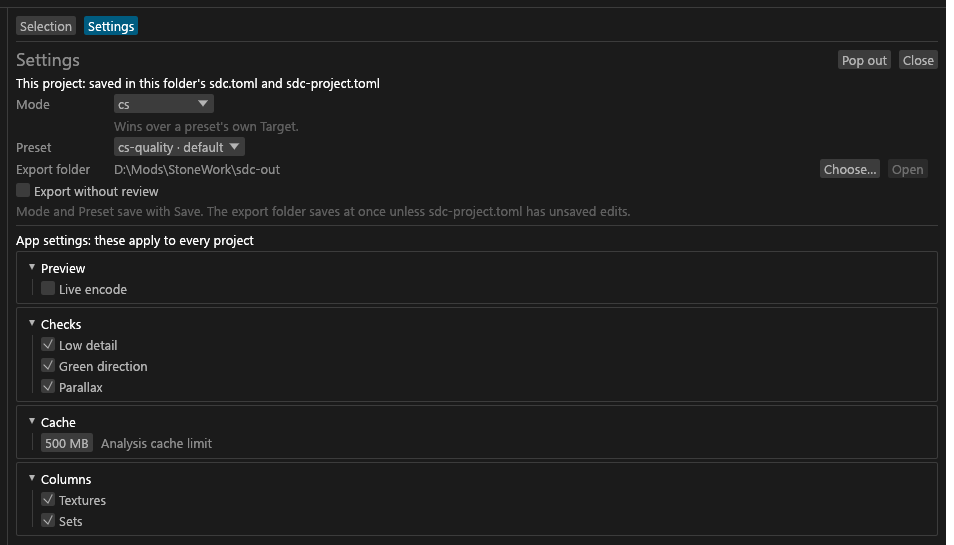
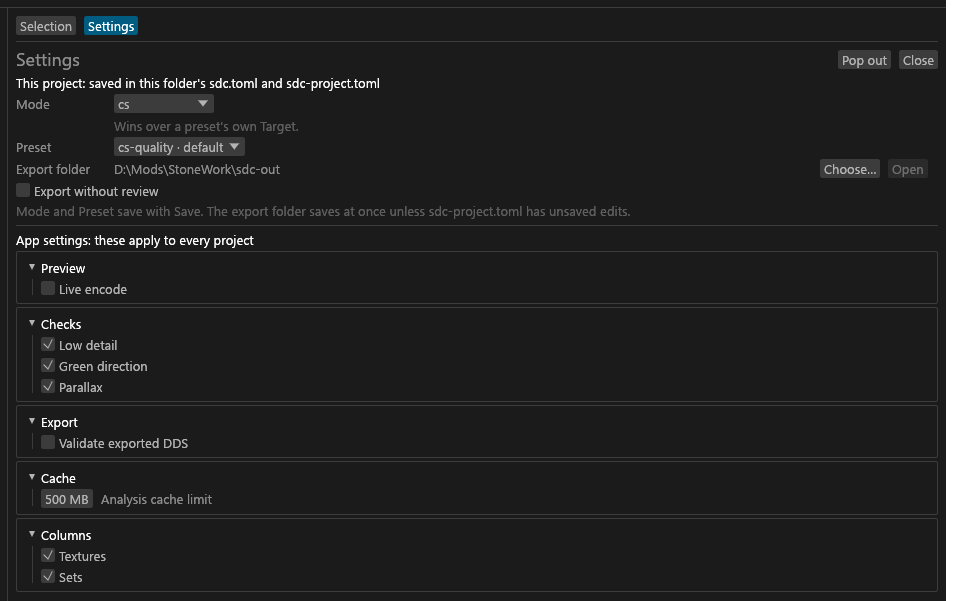
docs: validation after encoding is opt-in (Note LF)
Assisted-by: Claude Code

Changed region(s): [[0.0, 0.0, 1.0, 0.9982], [0.8512, 0.2495, 0.9727, 0.3431]]

diff --git a/.claude/DECISIONS.md b/.claude/DECISIONS.md
@@ -9,7 +9,7 @@ A new note goes at the end of this file and adds its letter to the index line of
 
 ## Index
 
-- Engine policy (formats, alpha gate, versions, writes): Answers, A, B, D, E, F, I, K, L, M, O, R, S, T, W, Y, AC, AG, AK, AV, AW, AX, AZ, BB, BC, BF, BJ, BL, BQ, BV, DB, DC, DM, DS, DY, FA, FF, FL, GJ, FM, FQ, FV, FZ, HB, HE, GU, GV, GW, GY, HF, IB, HR, HS, HW, HX, HY, HZ, JA, JB, JL, JP, JQ, JT, JU, JS, JZ, JY, LA, LB
+- Engine policy (formats, alpha gate, versions, writes): Answers, A, B, D, E, F, I, K, L, M, O, R, S, T, W, Y, AC, AG, AK, AV, AW, AX, AZ, BB, BC, BF, BJ, BL, BQ, BV, DB, DC, DM, DS, DY, FA, FF, FL, GJ, FM, FQ, FV, FZ, HB, HE, GU, GV, GW, GY, HF, IB, HR, HS, HW, HX, HY, HZ, JA, JB, JL, JP, JQ, JT, JU, JS, JZ, JY, LA, LB, LF
 - Analysis and alpha: A, E, L, M, S, T, U, X, Y, AH, AK, BC, CL, CN, DQ, DS, DU, DV, DW, DZ, FC, FM, GY, HR, HV, JE, JO, JQ, JS, JY
 - Mips and resize: E, R, S, W, X, Y, CL, FM, HR, JS, LA
 - Encoders: F, O, S, T, BZ, CB, CP, FE, FF, FJ, FM, FQ, FZ, HW, HX, HY, HZ, JB, JC, JT, JZ
@@ -17,14 +17,14 @@ A new note goes at the end of this file and adds its letter to the index line of
 - Bake: E, M, R, W, Y, AL, BP, CL, CO, DP, FM, FN, FO, FV, HD, GV, GW, JS, LA
 - Cubemaps: DL, DN, DS, DT, FA, FC, FM, FO, FQ, FT, FY, GU, HX, JY
 - Presets and config: G, N, S, T, X, AE, AL, AM, AP, AS, AV, AZ, BC, BJ, BO, BQ, BR, BV, CN, CV, FB, FL, FM, FQ, FX, FY, GU, HB, GV, GW, IA, IB, HY, JG, JT, JR, JS, JY, LA
-- Manifest and outputs: F, M, N, S, Y, AE, AF, AL, BJ, BQ, BV, CN, CT, DM, DY, FC, FM, FZ, HB, HE, HQ, HF, HR, HS, HZ, JA, JB, JC, JQ, JR, JT, JS, JZ, JY, LA
+- Manifest and outputs: F, M, N, S, Y, AE, AF, AL, BJ, BQ, BV, CN, CT, DM, DY, FC, FM, FZ, HB, HE, HQ, HF, HR, HS, HZ, JA, JB, JC, JQ, JR, JT, JS, JZ, JY, LA, LF
 - Exports (PGPatcher, CS PBR, CM, XPMF, Also): P, V, AA, AB, AC, AD, AF, AG, AN, AT, BO, BR, BV, BY, CN, CO, CV, GE, GI, FM, FN, FO, FP, FT, FW, FV, HB, GV, GW, HL, HQ, HF, HJ, HT, HS, JH, JI, JN, JR, JS, JY, LB
-- CLI: I, J, K, X, BC, BQ, CN, DY, FC, FM, FX, GV, GW, GY, IB, HS, JA, JP, JQ, JT, JS, JY
+- CLI: I, J, K, X, BC, BQ, CN, DY, FC, FM, FX, GV, GW, GY, IB, HS, JA, JP, JQ, JT, JS, JY, LF
 - GUI Files and Inspector: N, P, S, U, Z, AA, AE, AF, AG, AM, AN, AO, AV, AY, BH, BI, BN, BO, BR, BS, BV, BY, CA, CC, CD, CE, CF, CG, CV, DN, DO, DP, DU, DZ, FA, FB, FC, FD, FI, FK, FL, FM, FN, FO, FP, FT, FS, FW, FU, FY, HB, HC, HE, HG, GV, HM, HN, GW, GY, HP, IA, HL, HF, HH, IB, HJ, HR, HV, HS, JE, JD, JF, JG, JH, JI, JJ, JK, JL, JM, JN, JO, JP, JQ, JR, JT, JU, JS, JV, JW, JX, JY, LB, LC, LD
-- GUI Settings panel: S, V, X, Z, AF, AG, AJ, AN, AS, AW, BM, BS, CC, CL, CV, FB, FC, FM, FS, FT, FY, GU, GV, GW, HP, IA, IB, HI, HJ, HV, HY, JF, JG, JI, JL, JO, JR, JT, JU, JS, JY, LA
+- GUI Settings panel: S, V, X, Z, AF, AG, AJ, AN, AS, AW, BM, BS, CC, CL, CV, FB, FC, FM, FS, FT, FY, GU, GV, GW, HP, IA, IB, HI, HJ, HV, HY, JF, JG, JI, JL, JO, JR, JT, JU, JS, JY, LA, LF
 - GUI Meshes view: BA, BT, CV, CZ, FC, FI, GC, GD, GH, GJ, GK, GN, GO, GP, FO, GQ, GR, HS, JL, JT, JU, JY, LD
 - GUI Preview and 3D: N, AG, AQ, AU, BS, CE, CJ, CL, CM, DT, FA, GD, GG, GH, GJ, GK, GL, GM, FM, FO, GQ, FS, FT, FY, FZ, GR, GT, GU, GX, GZ, IB, HS, HX, JH, JI, JJ, JL, JO, JR, JT, JV, JY
-- GUI Dialogs and Export: AG, BH, BO, BR, BV, BY, CA, CD, CE, CF, CN, CV, DT, FB, FC, FI, FM, FN, FO, FP, FS, FW, FU, GU, HB, HC, HE, GV, GY, HL, HF, HQ, HH, HI, HJ, HR, HS, JA, JF, JI, JK, JL, JN, JO, JQ, JR, JT, JU, JS, JW, JY, LB, LC, LD
+- GUI Dialogs and Export: AG, BH, BO, BR, BV, BY, CA, CD, CE, CF, CN, CV, DT, FB, FC, FI, FM, FN, FO, FP, FS, FW, FU, GU, HB, HC, HE, GV, GY, HL, HF, HQ, HH, HI, HJ, HR, HS, JA, JF, JI, JK, JL, JN, JO, JQ, JR, JT, JU, JS, JW, JY, LB, LC, LD, LF
 - modscan: BE, BQ, BT, BU, BW, BY, CK, CM, CN, CV, CW, DA, GA, GB, GC, GD, GJ, GO, GP, GQ, HK, IB
 - vfs: AV, BP, BU, CV
 - esp: GG, GO, GQ
@@ -765,7 +765,7 @@ Rules still in force at 2.0, one or two lines each, with the 1.x IDs (in `.claud
   - **Motion.** The old `ui/motion.rs` and every call site are gone; today's `ui/motion.rs` is JO8's reduced-motion switch, with no setting. Toasts time out with no fade or rise. The Export button and dot take the accent at once. Progress bars show their value as it is. The reorder flash, the slot flash, the thumbnail press scale and the columns' fade-in on opening a folder are gone, and a scroll to a revealed set lands at once. egui's stock motion (dialog fades, collapsing headers) is left alone unless the OS asks for reduced motion (JO8), and keyboard-opened overlays still open without a fade (CF3). Nothing here adds an animation.
   - **Timings panel.** The Set 3D view's Timings panel and the query, NIF and push times behind it (`model::set_preview`) are gone, and `main` no longer calls `render3d::perf_log::start()`. `render3d` is untouched.
   - **An old `gui.toml`.** The keys `jobs`, `mem_budget_mb`, `bc1_decoder`, `nvtt_path`, `reduce_motion`, `allow_16k_preview` and `preview_max` load without a message and are left out of the next save. They have no row in `REMOVED`, which is for project and preset keys.
-  - **Tests.** `settings::a_1x_gui_toml_still_loads`. `settings_tab::the_settings_tab_holds_exactly_four_groups` (JI1) checks that App settings has four groups, Preview, Checks, Cache and Columns, by name, each holding its listed controls; a Worker threads row that came back inside a group would not fail it, so no test pins this ruling's removals any more. `messages`: `a_new_toast_appears_whole_without_rising`, `a_toast_stays_whole_until_its_time_is_up`, `a_resting_toast_asks_for_no_frames_until_its_time_is_up`, `a_hovered_toast_asks_for_no_short_timer`. `set_order::a_reveal_lands_at_once`. `ui_smoke::opening_a_folder_shows_the_columns_at_full_opacity_at_once`. `review_tab::export_is_the_accent_once_ready_and_plain_when_not`.
+  - **Tests.** `settings::a_1x_gui_toml_still_loads`. `settings_tab::the_settings_tab_holds_exactly_five_groups` (JI1) checks that App settings has five groups, Preview, Checks, Export, Cache and Columns, by name, each holding its listed controls; a Worker threads row that came back inside a group would not fail it, so no test pins this ruling's removals any more. `messages`: `a_new_toast_appears_whole_without_rising`, `a_toast_stays_whole_until_its_time_is_up`, `a_resting_toast_asks_for_no_frames_until_its_time_is_up`, `a_hovered_toast_asks_for_no_short_timer`. `set_order::a_reveal_lands_at_once`. `ui_smoke::opening_a_folder_shows_the_columns_at_full_opacity_at_once`. `review_tab::export_is_the_accent_once_ready_and_plain_when_not`.
   - Supersedes: CF1, CF2, CF11 to CF16 and CF18 (whole). In part: CF3, CF5, CF7, CF10 and CF19 (the motion wording and tests), N1 (the setting), AG112 (the fade), AG132 (Timings in Details), BS5 and BS8 (the flash), CL15 (after Interface), CL31 (Check all's threads and glide), FC9 (the slot flash), and the #19 row of Answers.
 - **FM26 The preview loses Pin, Compare and the Layout setting; the Value range and Plastic look checks are out (plan task 15, controller rulings P17 and P18, 2026-11-03).** No encoded byte changes (`encode_versions` leaves `identity.json` alone).
   - **Preview.** "Pin this result", Unpin, the Compare toggle and its captions, the `Pinned:` readout lines, the pinned heatmap, the `P` key (`Action::Pin`), `model::preview::pin`, `Slot::Pinned` and the `app.rs` line that cleared it are gone. So are the Split layout, the Layout choice (the "Side by side" button was the other half of it, so it went with Split) and the `preview_layout` setting: the preview always shows the source beside the encode. The toolbar's exact control set is pinned by `preview_model::preview_offers_side_by_side_heatmap_lens_tile_and_exposure_only`, and `ui_smoke`'s `TOOLBAR_ORDER` has 20 entries.
@@ -1462,7 +1462,7 @@ Source: Texalith's cubemap spike drew an envmapped ball whose top read the cube'
 ## Note JA — if-changed keeps outputs of an older encode version or a lower target; --ev re-encodes them (main team, 2026-11-14)
 
 Owner, 2026-11-13: "if-changed needs an extra argument --ev (encoder version) to rencode an image if only our encoder changed, by default it only re encodes if the image itself changed. A different encoder type, a different weighting, or a higher quality target (fast > max) still rencodes, a lower quality target does not". Code: `api::currency`, `engine::ev_scope`. Narrows the DM6/DM7 digest line, FM17, FM19, FM21, FM42, FM43, HR6, HW1 and HZ2 (edited in place; their old wording is in the archive).
-- **JA1 The rule.** Under `--on-existing if-changed` (`api::currency`) an existing output with a manifest record is encoded again when its source, recorded sources, pack roles or output file changed, its validation failed, a settings field other than a quality target changed, or a quality target rose. It is kept, its record untouched, when only its encode version differs and `--ev` does not cover it (JA2), or a quality target fell (JA5). Otherwise it is current. The engine version and `isa` are not compared.
+- **JA1 The rule.** Under `--on-existing if-changed` (`api::currency`) an existing output with a manifest record is encoded again when its source, recorded sources, pack roles or output file changed, its validation failed (a record not validated, `validation.skipped`, has not failed; a validating run checks it in place, LF10), a settings field other than a quality target changed, or a quality target rose. It is kept, its record untouched except by a check in place (LF10), when only its encode version differs and `--ev` does not cover it (JA2), or a quality target fell (JA5). Otherwise it is current. The engine version and `isa` are not compared.
 - **JA2 What `--ev` compares.** `--ev` is named after `engine::manifest::encode_version`. A record's encode version is its `encode_version`, its encoder tags (`bc7enc_rdo`, `ispctc`, `ispc` and `bc7e_patch` on every format, `rgbcx_patch` on BC1, BC3, BC4 and BC5; a missing patch tag counts) and, on BC1 and BC3, `bc1_model` compared with `BC1_ENCODE_ID` (the constant, never the literal `dual`, so a later change of it marks the older outputs). An `encode_version` arm records any change to a type's bytes or verdict, an encoder change or a pipeline fix, so the outputs of a pipeline fix are kept too without `--ev`; every run that keeps some says how many and how to re-encode them (JA6). No `bcenc` build id is added: a `bcenc` change that alters bytes moves an arm or `BC1_ENCODE_ID` (HY7, Note DM), and a same-bytes change needs no mark. User text says "written by an older encode version", never "only the encoder changed".
 - **JA3 Readings of the request (acting owner).** "Our encoder" is JA2's encode version: the vendored encoders' tags and `bc1_model` count with `encode_version`. "A different encoder type" is a different format or encoder choice in the profile, and "a different weighting" is `encoder.perceptual` or `encoder.bc7_weights`; both re-encode through JA5's profile check.
 - **JA4 Not comparable.** A record without encoders or a preset, of a newer schema, or with a missing or empty `encode_version` (1.x, FM9) is stale with or without `--ev`.
@@ -1540,7 +1540,7 @@ The owner approved the design on 2026-11-15 ("doc approved, yes add a this proje
 
 - **JI1 A Settings tab (owner; layout accepted 2026-11-15).** `CentreTab::Settings` is a third centre-column tab with Pop out, beside Presets and the TruePBR JSON editor (FB7). The header's **Settings…** opens it (`AppModel::open_settings_tab`); it sits after the view tabs, where the column eyes were, and stays outside ⋯, also with no folder and in the Meshes view (JY13).
   - **This project.** Heading "This project: saved in this folder's sdc.toml and sdc-project.toml", then Mode (moved whole from the Presets tab, which now only edits presets), Preset (a combo built from the header's menu body, `header::preset_entries`, accessible `Preset (this project): {value}`) and Export folder (the path cut in the middle at 48 characters, whole on hover and in the accessible name, with **Choose…** and **Open**). Mode and Preset save with Save and are off while `sdc.toml` is read-only; neither waits for a plan, as in the header. The export folder saves as `set_export_folder` does (at once while `sdc-project.toml` is clean, else on Save); Choose… and the header share `header::export_folder_off`. The Export without review row follows the folder row (JY3). With no project the section reads "No project open" and holds no controls.
-  - **App settings.** Heading "App settings: these apply to every project", then four groups in this order, each saved to `gui.toml` at once: Preview (Live encode, accessible "Live encode setting"; the preview toolbar and the command palette keep their copies), Checks (Low detail, Green direction, Parallax), Cache (Analysis cache limit, HV2) and Columns (ticks "Textures" and "Sets", ticked = shown, keeping BH15's accessible names "Textures column" / "Sets column").
+  - **App settings.** Heading "App settings: these apply to every project", then five groups in this order, each saved to `gui.toml` at once: Preview (Live encode, accessible "Live encode setting"; the preview toolbar and the command palette keep their copies), Checks (Low detail, Green direction, Parallax), Export (Validate exported DDS, LF6), Cache (Analysis cache limit, HV2) and Columns (ticks "Textures" and "Sets", ticked = shown, keeping BH15's accessible names "Textures column" / "Sets column").
   - **Names and text.** The tab's Open is named `Settings: Open export folder`, so it differs from Export to ▾'s "Open export folder" (rule 8.4; agent ruling over the plan's fixed name). The header's Preset hover ends "Change the mode in Settings…", and the CFG-UNAVAILABLE sentence says "change the mode in Settings…". `open_export_folder()` errors are discarded alike in the header, the Files tab and this tab. The popped-out tab's heading "Settings" can share the screen with the expanded preview's collapsed settings strip, so the strip's button is named `Preview settings` (rule 8.1); its painted text stays "Settings".
   - **Header width.** Settings… stays visible on the 1055 px row when optional controls move into ⋯ (JY13).
   - Amends BH15 (the eyes are the Columns ticks), FB7 (Settings is a third tab), FS5 (a docked Settings tab owns the keys), CD2 (header width, JY13), HV2 (Cache lives here), FM25 and FM26 (Preview and Checks are groups here) and JF3 (the sentence). Tests in `crates/gui/tests/settings_tab.rs`; `header_layout::the_header_is_one_row_from_1280`.
@@ -2177,3 +2177,19 @@ LD is provisional. At merge the controller rechecks the next free main-team lett
 - **LD11 File ownership.** On the owner's authority the main team changed these NIF-team files under `crates/gui/`: `src/model/meshes.rs`, `src/model/meshes/{edit_doc,export,nif_edit}.rs`, `src/ui/meshes.rs`, `src/ui/meshes/{edit_fields,edit_panel,txst_preview}.rs`, `tests/meshes_view.rs` and `tests/nif_edit.rs`. The other changes are GUI integration and tests under `src/{app,crash_log}.rs`, `src/model/{also,mod,review}.rs`, `src/ui/{header,review}.rs` and `tests/{also_export,export_folder,export_shell,header_layout,meshes_txst_preview,mo2_button,review,review_json_answer,review_tab,support/mod,ui_proof}.rs`. No NIF crate changed.
 - **LD12 Recovery and file identity.** Open and carry compare the draft, the matching kept autosave and the plain autosave by modification time (GD11). A project session must be recoverable from its own files. A carry retains the project's existing draft ID. When that changes the live ID, the session reads the export record again to establish its current owner. Equal durable operations need no rewrite. Otherwise the carry saves the selected operations before removing an adopted plain autosave. The session records each fingerprint where it adopts or writes operations. It preserves unknown bytes in a timestamped sibling or refuses the write. An equal record can be adopted at its current path. A proper prefix of the session's operations can permit the export without conferring ownership. Each draft save checks the kept recovery candidate, including on retries. A winning kept copy stays until the draft write succeeds. A known future-dated loser must be preserved before it can displace the new draft on reopen. A recovery file retimed externally between open and save is not watched continuously. A losing kept file can be preserved in its timestamped sibling even if the external change made it newer (3e-11). The fingerprint check and subsequent filesystem action have no cross-process lock. A change in that interval, removal of the project root during a save, and simultaneous writers of one kept file or export folder are accepted races (E6-M).
 - **LD13 Export eligibility and repair.** Export compares session operations, source hash and installed NIF with the chosen folder's record. An absent record clears that folder's derived state. A source change makes an exported edit pending in memory. An edit drag reuses the installed NIF hash while its path and metadata match. A committed edit or the end of a drag invalidates the cached hash, so the next classification reads the installed NIF again. Idle ownership refresh uses record length and modification time, including after a read error. A replacement preserving both can leave the row stale (3e-9). Export always reads the record and checks the installed bytes before writing. An unreadable record blocks the row. With zero operations an unrecorded installed NIF gets a refusal and reason. A final record failure leaves a pending repair even though the NIF was written. The live session can recognise its own partial NIF by hash. After reopening, Review can ask about the installed file. Keeping an externally replaced NIF can bring back the repair hint at the next open. Review and the viewport's quick export use the same ownership guards. The Review inventory uses the existing export list and refreshes when the edit or its classification changes.
+
+## Note LF - Validation after encoding is opt-in (owner, 2026-11-21)
+
+The owner: "Probably turn validate into an optional setting flag in the gui, and an opt in for conversions using sdc, validate already exists so can be reused." GUI default: "Off, like sdc". Plan: `docs/superpowers/plans/2026-11-21-optional-validate.md`.
+
+- **LF1 The switch.** `BatchRequest::validate` is off in `BatchRequest::new`. `sdc convert --validate` (a plain flag on `ConvertArgs` only) and the GUI's `gui.toml` key `validate_exports` (default off, saved at once, no re-plan; `export_request` copies it into `req.validate`) turn it on. With `[export] also`, all three phases follow it.
+- **LF2 A record that was not validated.** The record keeps its `validation` object with `passed: true`, `levels` the header's mip count, the other fields empty and `skipped: true` (`ValidationSummary::not_run`; `skipped` is omitted from JSON when false, so a validated record and every `sdc validate` report read as before). The field stays because readers need it: `currency` treats an absent `passed` as Stale, `ev_covers` reads `validation.levels`, Also export deserialises the whole `ManifestRecord` (a 3.0.0 engine requires `validation`), `FileDone` would lose a field (`EVENT_SCHEMA` stays 2 while fields are only added), and the GUI and CLI log read `passed`. `passed` keeps its meaning, "no Error-severity warning was found".
+- **LF3 No byte, pin or arm moves.** `validate()` takes the encoded bytes and returns a report; the same bytes are written either way (`optional_validate::skipping_validation_writes_the_same_bytes`), so no `encode_version` arm, `encode_versions` pin or profile hash changes. The guard and the goldens run with validation on: the engine harnesses set `validate = true` and the CLI ones pass `--validate`.
+- **LF4 `if-changed` and a record not validated.** A `skipped` record has `passed: true`, so `currency` keeps it as any passing record and needs no code change. A record whose validation failed (from an encode or from a check in place) is encoded again on the next run. This amends JA1.
+- **LF5 The `done:` line and exit 4.** Without the flag the line reads `..., N failed, validation off, N cancelled`, or `N failed validation (complex types only)` when an always-validated output failed; with it, as before. Without the flag exit 4 comes only from the always-validated types (LF9). Note K's injected failure (`SDC_TEST_FAIL_VALIDATION`) fires only on an output the run checks: with `--validate`, for an always-validated type, or in a check in place.
+- **LF6 The GUI setting.** App settings has five groups, with **Export** after Checks, holding **Validate exported DDS** (accessible name "Validate exported DDS", static hover). It covers the plain and Also exports and Review's export. **Copy CLI command** adds ` --validate` when it is on, and the Markdown report says "not validated" (or "validation failed N (complex types only)") when an export ran without it, and adds "checked in place N (M failed)" when it ran with it. This amends JI1.
+- **LF7 Version (owner, "MINOR anyway").** The change ships in a 3.x MINOR release as an owner exception to DM8. Under DM8 alone it is MAJOR: a script that relied on exit 4 for a type other than complex material or complex grass now needs `--validate`. The CHANGELOG bullet says so. FC7 is cited for comparison only.
+- **LF8 Preview and `sdc validate`.** `Session::preview` still validates its in-memory DDS for the GUI readouts; it writes nothing and is not a conversion. `sdc validate` is unchanged: it has no encoder input, base coverage or source peak.
+- **LF9 Always validated (owner, "Always validate those two").** `validate::always_validated(subtype)` is true for `ComplexMaterial` and `ComplexGrass` only, by resolved subtype and never by the `_m` suffix (a derived `EnvM` writes `_m` and follows the switch). `process_file` validates when `req.validate || always_validated(subtype)`, so these records never say `skipped`, and the complex-material card's smallest-mip alpha lines keep working.
+- **LF10 Checking in place (owner, "Check them in place"; OV-R1 from the controller).** A validating run under `if-changed` reads and checks an up to date output whose record says `skipped: true`, without encoding it (`pipeline::check_in_place`, then `commit_check`), and appends its record again with only `validation` and `ts` changed. `Manifest::append` is the path, after a second cancel and output-stamp check; the DDS is never opened for writing. An output kept for an older encode version is not checked (an older engine built its encoder input). The event is `FileSkipped { UpToDate }` with the reason suffix `; checked in place`, or `; checked in place: failed validation`; `BatchSummary` and `BatchDone` gain `checked` and `checked_failed`, Also export's sum adds them, and `exit_code` gives 4 for `validation_failed + checked_failed > 0`. A read or prepare failure is a failed file, not up to date. This amends JA1.
+- **LF11 What a check in place leaves alone (controller, OV-R3 and OV-R4).** A packed output is checked only when its recorded `pack.*` provenance equals what `prepare` would assemble now. Only a `Current` output is checked, so an output kept for a lower quality target and every Vanilla copy (`copied_from`) stay not validated until re-encoded, and no verdict passes from a twin to its copy. JA7's copy path is unchanged.

diff --git a/docs/wiki/CLI-Reference.md b/docs/wiki/CLI-Reference.md
@@ -63,10 +63,10 @@ Progress goes to stderr, one line per file, with forward slashes:
 ok    C:/Work/IronPlate/textures/pbr/armor/ironplate/ironplate.png -> C:/Work/IronPlate-out/textures/pbr/armor/ironplate/ironplate.dds
 ok    C:/Work/IronPlate/textures/pbr/armor/ironplate/ironplate_n.png -> C:/Work/IronPlate-out/textures/pbr/armor/ironplate/ironplate_n.dds
 ok    ... -> C:/Work/IronPlate-out/textures/pbr/armor/ironplate/ironplate_rmaos.dds
-done: 3 converted, 0 up to date, 0 skipped (0 on purpose), 0 failed, 0 failed validation, 0 cancelled
+done: 3 converted, 0 up to date, 0 skipped (0 on purpose), 0 failed, validation off, 0 cancelled
 ```
 
-The three raw maps get no line: the packed output consumed them. Without `-o`, output goes to `.\sdc-out` ([layout](Validation-and-Output.md#where-the-files-go)). Exit code `0` means every file converted and validated; the others are under [Exit codes](#exit-codes).
+The three raw maps get no line: the packed output consumed them. Without `-o`, output goes to `.\sdc-out` ([layout](Validation-and-Output.md#where-the-files-go)). Exit code `0` means every file converted and no file checked in the run failed its check; the others are under [Exit codes](#exit-codes).
 
 ### Run it again
 
@@ -191,6 +191,7 @@ Plans the batch, then encodes every file whose status is ready.
 | `--on-existing if-changed\|skip\|overwrite` | `if-changed` | What to do when an output exists: `if-changed` encodes it again only when something changed, `skip` keeps it, `overwrite` encodes it again ([below](#re-runs-and-if-changed)). |
 | `--ev` (alias `--encoder-version`) | off | With `if-changed`, also encode again the outputs written by an older encode version ([after an update](#re-encoding-after-an-update)). |
 | `--property <words>` | none | With `--ev`, only the outputs that have every word of the list. Repeatable: any list may match ([the words](#property-words)). |
+| `--validate` | off | Decode each output again after encoding and check it ([what is checked](Validation-and-Output.md#what-is-checked)). Without the flag the `done` line says `validation off`. With it, earlier unchecked outputs are checked where they lie. <!-- D:LF1,LF10 --> |
 | `--dry-run` | off | Plan and report, write nothing. |
 
 The GUI always runs with the defaults (all cores, 50% of RAM). These two flags are the only way to change them.
@@ -212,12 +213,16 @@ Each line on stderr has one of these shapes:
 ok    <input> -> <output>
 ok    <input> -> <output>  [VALIDATION FAILED]
 skip  <input>: <CODE> <reason>
+skip  <input>: up to date; checked in place: failed validation
 FAIL  <input> at <Stage>: <error>
 warning <input>: <CODE> <message>
 blocking <input>: <CODE> <message>
 error <input>: <CODE> <message>
 info  <input>: CFG-FILTER-IGNORED <message>
 done: N converted, N up to date, N skipped (N on purpose), N failed, N failed validation, N cancelled
+done: N converted, N up to date, N skipped (N on purpose), N failed, validation off, N cancelled
+done: ..., N failed, N failed validation (complex types only), N cancelled
+done: ..., N failed, N failed validation, N checked in place (N failed), N cancelled
 done: ..., N cancelled, N kept from an older encode version (--ev re-encodes), N kept at a higher target
 done: ..., N cancelled, N kept at a higher target
 ```
@@ -228,7 +233,11 @@ done: ..., N cancelled, N kept at a higher target
 - With `--json`, the `OUT-KEPT-OLDER-ENCODE` event splits its count by format and texture type.
 - A set-level warning prints with the set id as its label: `warning textures/armor/iron/iron: SHADER-MISSING-MAP …`.
 - Raw maps consumed by a packed output get no line of their own.
-- A file with a validation error is still written. It prints as `ok ... [VALIDATION FAILED]`, counts under "failed validation", and makes `sdc convert` exit 4 if nothing worse happened.
+- A file is checked when the run has `--validate`, and always when it is a complex material `_m` or complex grass output. <!-- D:LF1,LF9 -->
+- Two failures read differently. A new output that fails prints `ok ... [VALIDATION FAILED]` and counts under "failed validation". <!-- D:LF1 -->
+- An old output that fails prints `skip ... up to date; checked in place: failed validation` and counts under "checked in place (M failed)"; the next `if-changed` run encodes it again. <!-- D:LF10 -->
+- Both make `sdc convert` exit 4 if nothing worse happened.
+- The `done` line says `validation off` when the run did not check, or `N failed validation (complex types only)` when it did not check and a complex file failed. It names "checked in place" only when N is above 0, as it does for kept counts. <!-- D:LF5,LF10 -->
 - The CLI raises none of the `CHK-` artist checks; the engine measures `CHK-LOW-DETAIL` only when the GUI asks.
 
 | `done` counter | Counts |
@@ -238,7 +247,8 @@ done: ..., N cancelled, N kept at a higher target
 | skipped | Files not converted for any other reason: unresolved, blocked, duplicate output, DDS input, existing output with no record, `--on-existing skip`, a pre-packed file replaced under `packing.prefer = "raw"` (`PACK-CONFLICT`), a generated file replaced by a real map (`GEN-REPLACED`). |
 | on purpose | The part of skipped you asked for: DDS inputs not opted in (`IN-DDS-SKIPPED`), `--on-existing skip`, `PACK-CONFLICT` and `GEN-REPLACED`. |
 | failed | Files that failed to load, resolve, encode or write. |
-| failed validation | Files written whose validation reported an error. |
+| failed validation | Files written this run whose validation reported an error. |
+| checked in place | Of up to date: outputs this run checked in place, and wrote no new file for; M of them failed. Shown only when above 0. |
 | cancelled | Files not started because you pressed Ctrl-C. |
 | kept from an older encode version | Of up to date: the outputs kept as "older encode version" ([below](#re-runs-and-if-changed)). Shown only when above 0. |
 | kept at a higher target | Of up to date: the outputs kept as "lower target" ([below](#re-runs-and-if-changed)). Shown only when above 0. |
@@ -554,11 +564,11 @@ That is an error that stops a run, exit 2: see [Error messages](#error-messages)
 
 | Code | Meaning |
 |---|---|
-| 0 | Success. Every file converted (or was up to date or skipped on purpose) and passed validation. |
+| 0 | Success. Every file converted (or was up to date or skipped on purpose) and no file checked this run failed validation. |
 | 1 | Partial. Some files were unresolved, blocked, failed, cancelled, or had an existing output with no manifest record. |
 | 2 | Usage or configuration error: a bad flag, `--set` value, input path, preset or config file. Nothing was converted. |
 | 3 | Fatal: an I/O failure on the output root or manifest, an internal error (`sdc: internal error`), or a second Ctrl-C. |
-| 4 | Every file was handled, but at least one failed validation. |
+| 4 | Every file was handled, but at least one file checked this run failed validation (written, or checked in place). |
 
 When several apply, the highest wins: 3, then 2, then 1, then 4, then 0. Intentional skips, up-to-date files and raw maps consumed by packing never cause exit 1.
 
@@ -616,10 +626,10 @@ An error that stops a run prints `sdc: <message>` to stderr and exits 2 (3 for a
 | `file_started` | none. |
 | `progress` | `stage`, `done`, `total`. |
 | `warning` | `code`, `severity`, `message`, `data`. |
-| `file_done` | `output`, `validation` (`passed`, `levels`, `min_mip_psnr_db`, `alpha`, `coverage`, `bc6h_peak_ratio`). |
+| `file_done` | `output`, `validation` (`passed`, `levels`, `min_mip_psnr_db`, `alpha`, `coverage`, `bc6h_peak_ratio`, `skipped`: true when the output was not checked). |
 | `file_skipped` | `skip`, `code`, `reason`. |
 | `file_failed` | `stage`, `error`. |
-| `batch_done` | `converted`, `up_to_date`, `skipped`, `skipped_intentional`, `failed`, `validation_failed`, `cancelled` (list of inputs). |
+| `batch_done` | `converted`, `up_to_date`, `skipped`, `skipped_intentional`, `failed`, `validation_failed`, `checked`, `checked_failed`, `cancelled` (list of inputs). |
 
 - `skip` values: `up_to_date`, `on_existing_skip`, `unresolved`, `blocked`, `duplicate`, `dds_input`, `packing_input`, `unknown_existing`, `pack_conflict`, `packed_source`, `generated_replaced`.
 - `stage` values: `discover`, `group`, `load`, `analyse`, `resolve`, `preprocess`, `mipmaps`, `compress`, `write`, `validate`.

diff --git a/.claude/DECISIONS-ARCHIVE.md b/.claude/DECISIONS-ARCHIVE.md
@@ -1120,6 +1120,9 @@ ARCHIVED (wording before the edit; superseded in part by Note JY, 2026-11-20)
 ARCHIVED (wording before the edit; superseded in part by Note JY, 2026-11-20)
 - **JA11 This plan's additions beyond the request.** `OnExisting::Reencode` (serde `reencode`) encodes every output that has a record again and keeps one without (`OUT-UNKNOWN-EXISTING`); the Also export treats it as `IfChanged` (the twin was just encoded, so its copy is redone). It backs the GUI's one-shot "Re-encode every output" item in the Export to ▾ menu (JA12), which does not use `Overwrite` because that replaces files Tessalith did not write. The CLI has no value for it; `--encoder-version` is a visible alias of `--ev`.
 
+ARCHIVED (wording before the edit; superseded in part by Note LF, 2026-11-21)
+- **JA1 The rule.** Under `--on-existing if-changed` (`api::currency`) an existing output with a manifest record is encoded again when its source, recorded sources, pack roles or output file changed, its validation failed, a settings field other than a quality target changed, or a quality target rose. It is kept, its record untouched, when only its encode version differs and `--ev` does not cover it (JA2), or a quality target fell (JA5). Otherwise it is current. The engine version and `isa` are not compared.
+
 ## Note JI — Settings tab, and no Advanced drawer (owner, 2026-11-15)
 
 ARCHIVED (wording before the edit; superseded in part by Note JO, 2026-11-17)
@@ -1148,6 +1151,14 @@ ARCHIVED (wording before the edit; superseded in part by Note JY, 2026-11-20)
   - **Names and text.** The tab's Open is named `Settings: Open export folder`, so it differs from Export to ▾'s "Open export folder" (rule 8.4; agent ruling over the plan's fixed name). The header's Preset hover ends "Change the mode in Settings…", and the CFG-UNAVAILABLE sentence says "change the mode in Settings…". `open_export_folder()` errors are discarded alike in the header, the Files tab and this tab. The popped-out tab's heading "Settings" can share the screen with the expanded preview's collapsed settings strip, so the strip's button is named `Preview settings` (rule 8.1); its painted text stays "Settings".
   - **Header width.** Settings… is narrower than the two eyes: the header is one row from 1210 pt (measured in 1 pt steps), where CD2 said 1280.
   - Amends BH15 (the eyes are the Columns ticks), FB7 (Settings is a third tab), FS5 (a docked Settings tab owns the keys), CD2 (1210 pt), HV2 (Cache lives here), FM25 and FM26 (Preview and Checks are groups here) and JF3 (the sentence). Tests in `crates/gui/tests/settings_tab.rs`; `header_layout::the_header_is_one_row_from_1280`.
+
+ARCHIVED (wording before the edit; superseded in part by Note LF, 2026-11-21)
+- **JI1 A Settings tab (owner; layout accepted 2026-11-15).** `CentreTab::Settings` is a third centre-column tab with Pop out, beside Presets and the TruePBR JSON editor (FB7). The header's **Settings…** opens it (`AppModel::open_settings_tab`); it sits after the view tabs, where the column eyes were, and stays outside ⋯, also with no folder and in the Meshes view (JY13).
+  - **This project.** Heading "This project: saved in this folder's sdc.toml and sdc-project.toml", then Mode (moved whole from the Presets tab, which now only edits presets), Preset (a combo built from the header's menu body, `header::preset_entries`, accessible `Preset (this project): {value}`) and Export folder (the path cut in the middle at 48 characters, whole on hover and in the accessible name, with **Choose…** and **Open**). Mode and Preset save with Save and are off while `sdc.toml` is read-only; neither waits for a plan, as in the header. The export folder saves as `set_export_folder` does (at once while `sdc-project.toml` is clean, else on Save); Choose… and the header share `header::export_folder_off`. The Export without review row follows the folder row (JY3). With no project the section reads "No project open" and holds no controls.
+  - **App settings.** Heading "App settings: these apply to every project", then four groups in this order, each saved to `gui.toml` at once: Preview (Live encode, accessible "Live encode setting"; the preview toolbar and the command palette keep their copies), Checks (Low detail, Green direction, Parallax), Cache (Analysis cache limit, HV2) and Columns (ticks "Textures" and "Sets", ticked = shown, keeping BH15's accessible names "Textures column" / "Sets column").
+  - **Names and text.** The tab's Open is named `Settings: Open export folder`, so it differs from Export to ▾'s "Open export folder" (rule 8.4; agent ruling over the plan's fixed name). The header's Preset hover ends "Change the mode in Settings…", and the CFG-UNAVAILABLE sentence says "change the mode in Settings…". `open_export_folder()` errors are discarded alike in the header, the Files tab and this tab. The popped-out tab's heading "Settings" can share the screen with the expanded preview's collapsed settings strip, so the strip's button is named `Preview settings` (rule 8.1); its painted text stays "Settings".
+  - **Header width.** Settings… stays visible on the 1055 px row when optional controls move into ⋯ (JY13).
+  - Amends BH15 (the eyes are the Columns ticks), FB7 (Settings is a third tab), FS5 (a docked Settings tab owns the keys), CD2 (header width, JY13), HV2 (Cache lives here), FM25 and FM26 (Preview and Checks are groups here) and JF3 (the sentence). Tests in `crates/gui/tests/settings_tab.rs`; `header_layout::the_header_is_one_row_from_1280`.
 
 ## Note JV - One selection per set, key or no key (F11, controller, 2026-11-18)
 

diff --git a/docs/wiki/Validation-and-Output.md b/docs/wiki/Validation-and-Output.md
@@ -34,7 +34,7 @@ Tessalith writes its own headers: legacy or DX10, picked from the format and the
 
 ## What is checked
 
-Every converted file is decoded again before it is written, and the decoded result is checked. Mip quality, cutout coverage and the BC6H peak need the encoder input, so they run only during a conversion. The other checks also work on DDS files you already have, from the command line: [CLI reference](CLI-Reference.md#sdc-validate).
+Complex material `_m` and complex grass outputs are always checked; other outputs are checked when you ask (`sdc convert --validate`, or **Validate exported DDS** in the GUI's Settings). Mip quality, coverage and the BC6H peak need the encoder input, so only a conversion runs them. A checking run also checks, in place and against the rebuilt encoder input, the outputs an earlier run left unchecked; their files are not written. Some outputs wait for a re-encode instead: an output kept for an older encode version (`--ev`) or for a lower quality target, a packed output whose channel pick would differ now, and every Vanilla copy made by an Also export. <!-- D:LF9,LF10,LF11 --> The other checks also work on DDS files you already have, from the command line: [CLI reference](CLI-Reference.md#sdc-validate).
 
 The thresholds are fixed; only `validation.mips` is a setting.
 
@@ -51,11 +51,13 @@ The thresholds are fixed; only `validation.mips` is a setting.
 | BC6H peak | The decoded peak divided by the source peak is at least 0.8. | `VAL-BC6H-PEAK` | warning |
 | Complex grass corner | The encoded bottom-left texel still passes Community Shaders' detection test. | `VAL-GRASS-DETECT` | error |
 
-- A file with a validation error is still written and counted under "failed validation". The next `if-changed` run re-encodes it.
+- A file written this run with a validation error stays on disk. The summary counts it under "failed validation".
+- An earlier output that fails its check in place is left alone and counted under "checked in place".
+- The next `if-changed` run re-encodes either one.
 
 ## The manifest
 
-Every output root has `<output root>\_sdc\manifest.jsonl`: one JSON line per file written. When a file is converted again a new line is appended, and the last line for each output wins. A record holds the resolved settings and where each came from, the source hashes, the encoder versions, the CPU path that encoded it (`isa`: `avx512`, `avx2` or `sse2`; `avx` and `sse4` appear only in records an older version wrote), the validation summary and the output's size and time. The JSON Schema for it is `manifest`: [CLI reference](CLI-Reference.md#sdc-presets).
+Every output root has `<output root>\_sdc\manifest.jsonl`: one JSON line per file written. When a file is converted again a new line is appended, and the last line for each output wins. A record holds the resolved settings and where each came from, the source hashes, the encoder versions, the CPU path that encoded it (`isa`: `avx512`, `avx2` or `sse2`; `avx` and `sse4` appear only in records an older version wrote), the validation summary (or `skipped` when the run did not check) and the output's size and time. The JSON Schema for it is `manifest`: [CLI reference](CLI-Reference.md#sdc-presets).
 
 ## Re-runs and if-changed
 
@@ -64,7 +66,7 @@ Re-runs default to `if-changed`. For each output that already exists, Tessalith 
 - a source file's content (by SHA-256), including packing sources and the baked normal map;
 - the output file's size or modified time, so touching or replacing an output by hand counts;
 - a resolved setting, other than a quality target set lower;
-- the record failed validation.
+- the record failed validation. <!-- D:LF4 -->
 
 So editing a source, or changing a setting in `sdc.toml` or a preset, re-encodes exactly the files affected. <!-- D:JA1 --> A record written by Tessalith 1.x is always encoded again. <!-- D:JA4 -->
 

diff --git a/docs/wiki/GUI-Main-Window.md b/docs/wiki/GUI-Main-Window.md
@@ -47,7 +47,7 @@ Read `57 files → 68 textures (11 packed or generated) · 7 sets` as files foun
 
 **Settings…** opens in the current view, even with no folder open. In **Meshes**, docked Settings, Presets and the JSON editor cover the mesh list. **Back to meshes**, **Close** or **Pop out** reveals it again. <!-- D:JY15 --> See [which edit Undo reverses over Meshes](GUI-NIF-Edit.md#pending-edits-undo-and-source-changes). The top section belongs to the open folder. The lower one applies to every project. <!-- D:JI1 -->
 
-![The Settings tab: the project's Mode, Preset and export folder, then the Preview, Checks, Cache and Columns groups.](../img/gui/GUI-Main-Window/settings-tab.png)
+![The Settings tab: the project's Mode, Preset and export folder, then the Preview, Checks, Export, Cache and Columns groups.](../img/gui/GUI-Main-Window/settings-tab.png)
 
 ### This project
 
@@ -70,6 +70,7 @@ These apply to every project and save to `gui.toml` at once.
 |---|---|
 | Preview | **Live encode**: the expanded preview encodes again after every edit; off, use **Encode now**. The preview toolbar has the same switch. |
 | Checks | **Low detail**, **Green direction**, **Parallax**: [Artist checks](Texture-Types.md#artist-checks). |
+| Export | **Validate exported DDS**: each export decodes every DDS again and checks it. Off by default. What gets checked, and when: [Validation and output](Validation-and-Output.md#what-is-checked). <!-- D:LF6 --> |
 | Cache | **Analysis cache limit**: [Where Tessalith keeps its files](Installation.md#where-tessalith-keeps-its-files). |
 | Columns | **Textures**, **Sets**: ticked shows the column. |
 

diff --git a/CHANGELOG.md b/CHANGELOG.md
@@ -136,6 +136,7 @@
 ### Added
 
 - **Problems** warns when a PGPatcher entry or skin material uses a borrowed slot and none of those entries or materials uses the set's own DDS. Export still writes the DDS. For a shared pack input, the warning names the set it came from when known. Remove the share or your set's own file, drop the borrow, or choose **Mark as intended** if a mesh or another mod uses the file.
+- `sdc convert` and GUI exports no longer decode and check every DDS after encoding, so they finish sooner. Complex material `_m` and complex grass textures are still always checked. `sdc convert --validate` and the new **Validate exported DDS** in Settings (App settings, Export) turn the check on for every type. With it on, outputs an earlier run left unchecked are checked where they are, without encoding them again, and the `done` line counts them. The files are byte for byte the same either way. Without it, `sdc convert` no longer exits 4 for most files that fail a check: add `--validate` to a script that relies on exit 4. See docs/wiki/Validation-and-Output.md#what-is-checked.
 
 ## 3.0.0
 

diff --git a/README.md b/README.md
@@ -17,7 +17,7 @@ Download the zip from [Releases](https://github.com/Alistra-za/Tessalith/release
 **Encoding and checks**
 - BC1, BC3, BC4, BC5, BC6H, BC7 and uncompressed output, each with the [best encoder for its format](#uses-the-best-encoder-available). BC1 is scored for NVIDIA and AMD decoders together.
 - [BC7 weighting](docs/wiki/GUI-Texture-Panel.md#bc7-weighting-against-bc3) for data maps whose alpha matters.
-- Every encode is decoded and checked against Skyrim's rules. DDS files from other tools can be validated too.
+- Every encode can be decoded and checked against Skyrim's rules (`--validate`, or one setting in the GUI). DDS files from other tools can be validated too.
 - [Artist checks](docs/wiki/Texture-Types.md#artist-checks) warn about a flipped normal and similar. They never block an export.
 
 **Maps and packing**

diff --git a/docs/wiki/Getting-Started.md b/docs/wiki/Getting-Started.md
@@ -67,7 +67,7 @@ Copy the output into your mod and leave `_sdc` out. Install the JSON from `PBRNI
 
 ## Check it in game
 
-Tessalith's validation checks the files, not the game. Look at these, each with what a bad result means:
+Tessalith's validation (always on for complex `_m` and complex grass; for the rest, turn on **Validate exported DDS** or `--validate`) checks the files, not the game. Look at these, each with what a bad result means:
 
 - **Textures load.** A missing one means its output path differs from the path the mesh uses. The Meshes view shows a mesh's slots.
 - **PBR colour brightness.** Compare albedo, `_g` and `_f` with linear lighting on and off. Washed out means a `color.tag = "unorm"` override: `TAG-UNORM-PBR`. [sRGB or UNORM](Texture-Types.md#srgb-or-unorm) has the rule.
